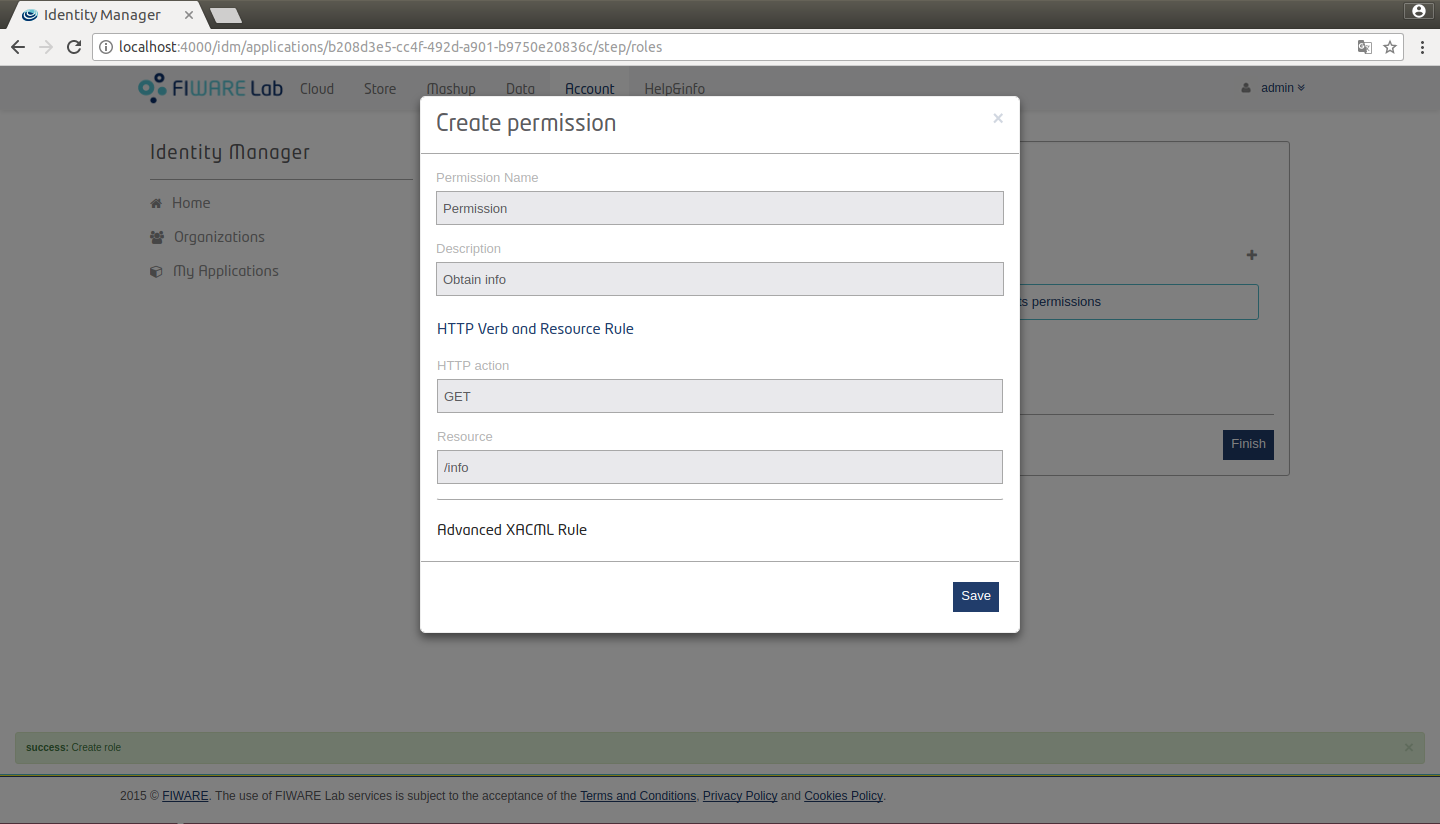
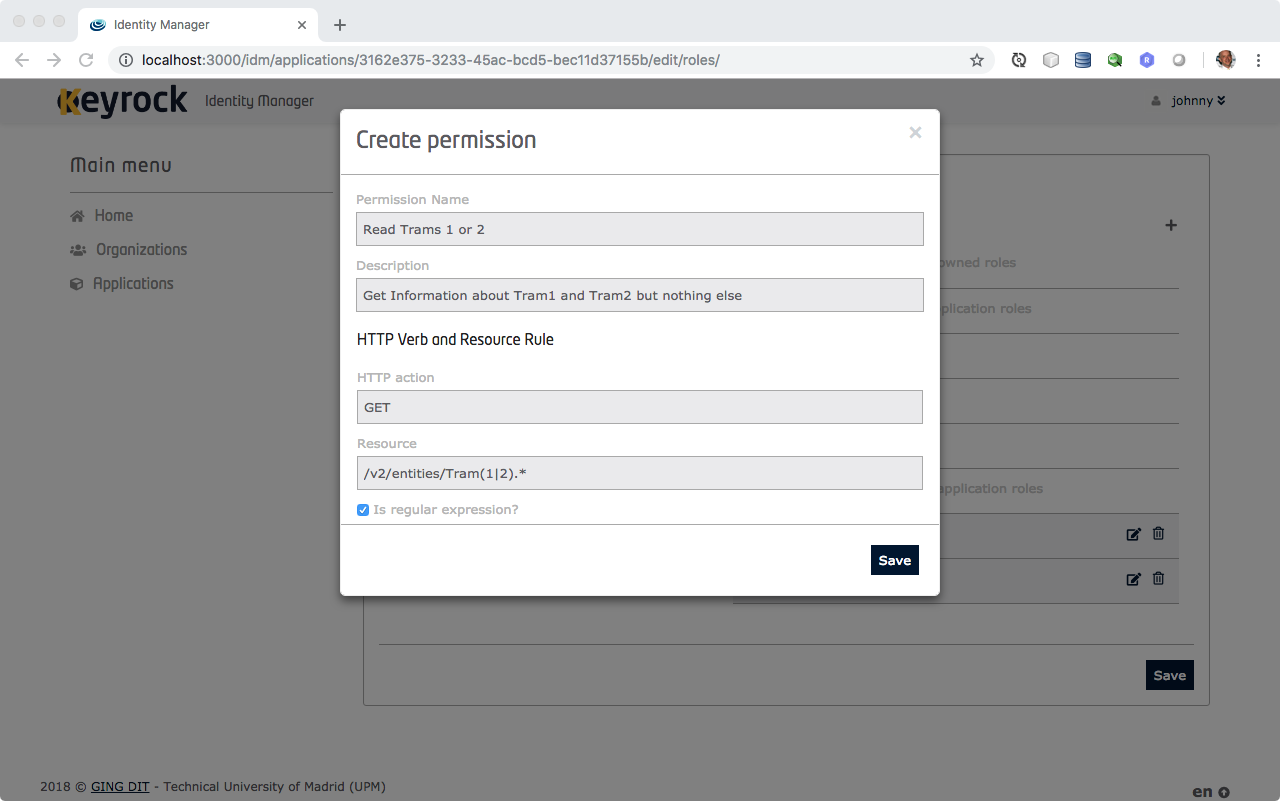
Permissions now support regular expressions

diff --git a/models/model_oauth_server.js b/models/model_oauth_server.js
@@ -815,14 +815,21 @@ function user_permissions(roles_id, app_id, action, resource) {
     })
     .then(function(permissions) {
       if (permissions.length > 0) {
-        return models.permission.findAll({
-          where: {
-            id: permissions.map(elem => elem.permission_id),
-            oauth_client_id: app_id,
-            action,
-            resource,
-          },
-        });
+        return models.permission
+          .findAll({
+            where: {
+              id: permissions.map(elem => elem.permission_id),
+              oauth_client_id: app_id,
+              action,
+            },
+          })
+          .then(permissions =>
+            permissions.filter(permission =>
+              permission.isRegex == 1
+                ? new RegExp(permission.resource).exec(resource)
+                : permission.resource == resource
+            )
+          );
       }
       return [];
     });

diff --git a/models/helpers/search_distinct.js b/models/helpers/search_distinct.js
@@ -12,6 +12,7 @@ const sequelize = new Sequelize(
   {
     host: config.host,
     logging: logs,
+    port: config.port,
     dialect: config.dialect,
   }
 );

diff --git a/models/helpers/search_identity.js b/models/helpers/search_identity.js
@@ -12,6 +12,7 @@ const sequelize = new Sequelize(
   {
     host: config.host,
     logging: logs,
+    port: config.port,
     dialect: config.dialect,
   }
 );

diff --git a/doc/user_and_programmers_guide/application_guide.md b/doc/user_and_programmers_guide/application_guide.md
@@ -99,8 +99,9 @@ click "Save".
 
 You are also permitted to add up new permissions by clicking on "New
 Permission". Here you need to enter the name of the permission, description,
-HTTP verb (GET, PUT, POST, DELETE) and the Path to that permission. Click
-"Create Permission" and "Finish" to finalize with creating the application.
+HTTP verb (GET, PUT, POST, DELETE) and the Path (which could also be a regular
+expression) to that permission. Click "Create Permission" and "Finish" to
+finalize with creating the application.
 
 ![](https://raw.githubusercontent.com/ging/fiware-idm/master/doc/resources/UserGuide_application_permissions_create.png)
 
